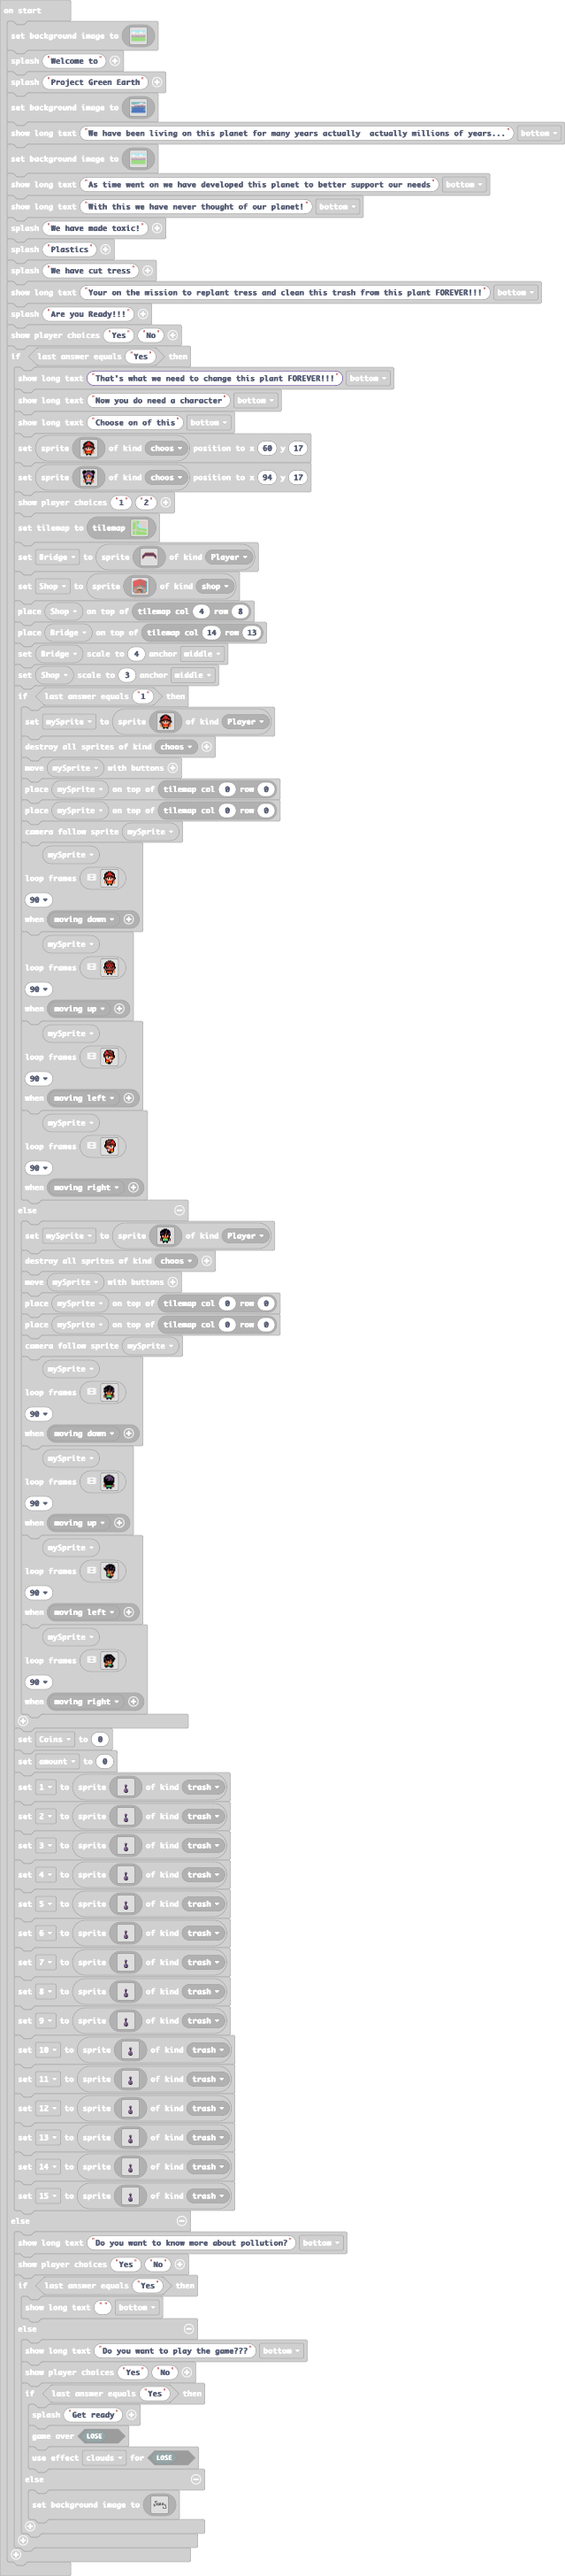
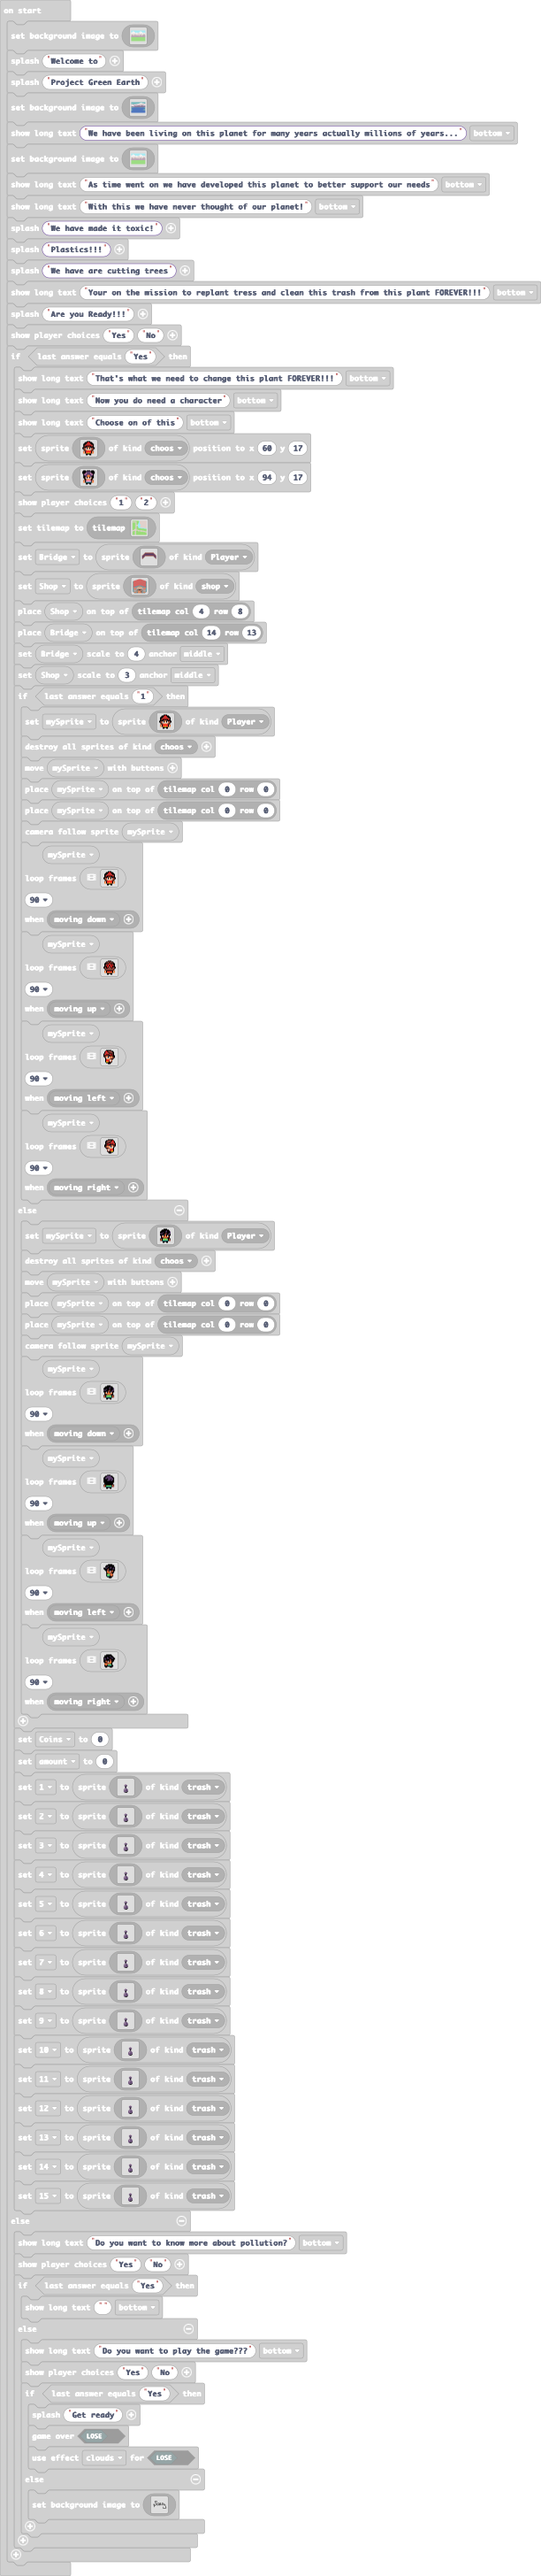
Update main.blocks, main.ts

diff --git a/main.ts b/main.ts
@@ -273,7 +273,7 @@ scene.setBackgroundImage(img`
     8888888888888888888888888888888888888888888888888888888888888888888888888888888888888888888888888888888888888888888888888888888888888888888888888888888888888888
[1 lines of base64/hex data omitted]
     `)
-game.showLongText("We have been living on this planet for many years actually  actually millions of years...", DialogLayout.Bottom)
+game.showLongText("We have been living on this planet for many years actually millions of years...", DialogLayout.Bottom)
 scene.setBackgroundImage(img`
     9999999999999999999999999999999999999999999999999999999999999999999999999999999999999999999999999999999999999999999999999999999999999999999999999999999999999999
     9999999999999999999999999999999999999999999999999999999999999999999999999999999999999999999999999999999999999999999999999999999999999999999999999999999999999999
@@ -398,9 +398,9 @@ scene.setBackgroundImage(img`
     `)
 game.showLongText("As time went on we have developed this planet to better support our needs", DialogLayout.Bottom)
 game.showLongText("With this we have never thought of our planet!", DialogLayout.Bottom)
-game.splash("We have made toxic!")
-game.splash("Plastics")
-game.splash("We have cut tress")
+game.splash("We have made it toxic!")
+game.splash("Plastics!!!")
+game.splash("We have are cutting trees")
 game.showLongText("Your on the mission to replant tress and clean this trash from this plant FOREVER!!!", DialogLayout.Bottom)
 game.splash("Are you Ready!!!")
 story.showPlayerChoices("Yes", "No")
